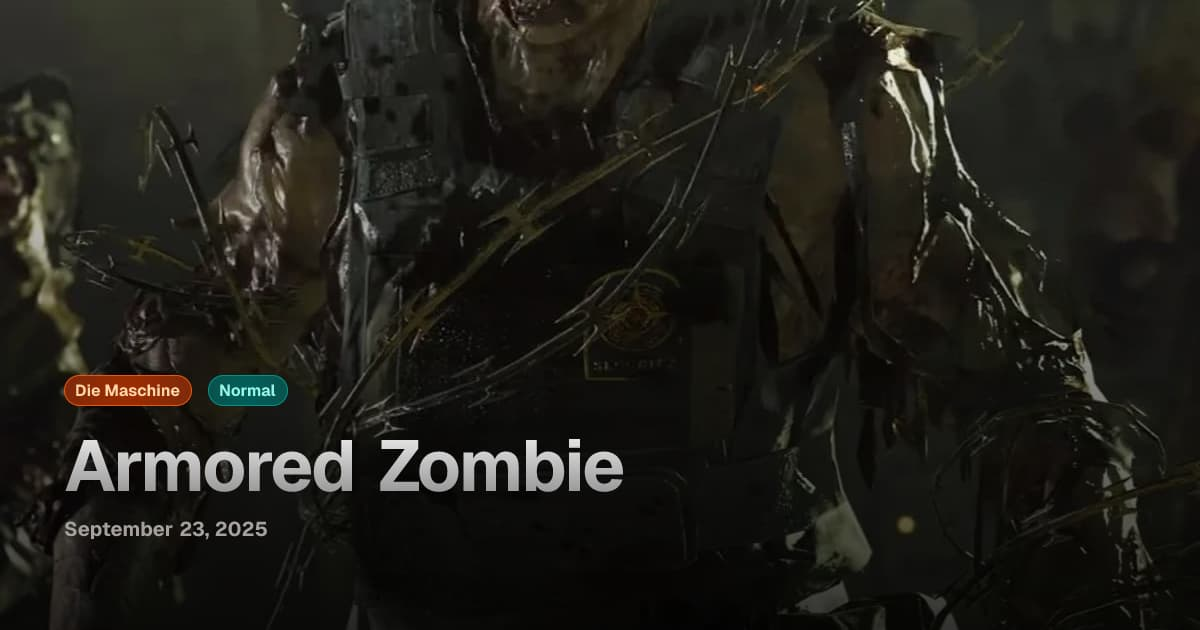
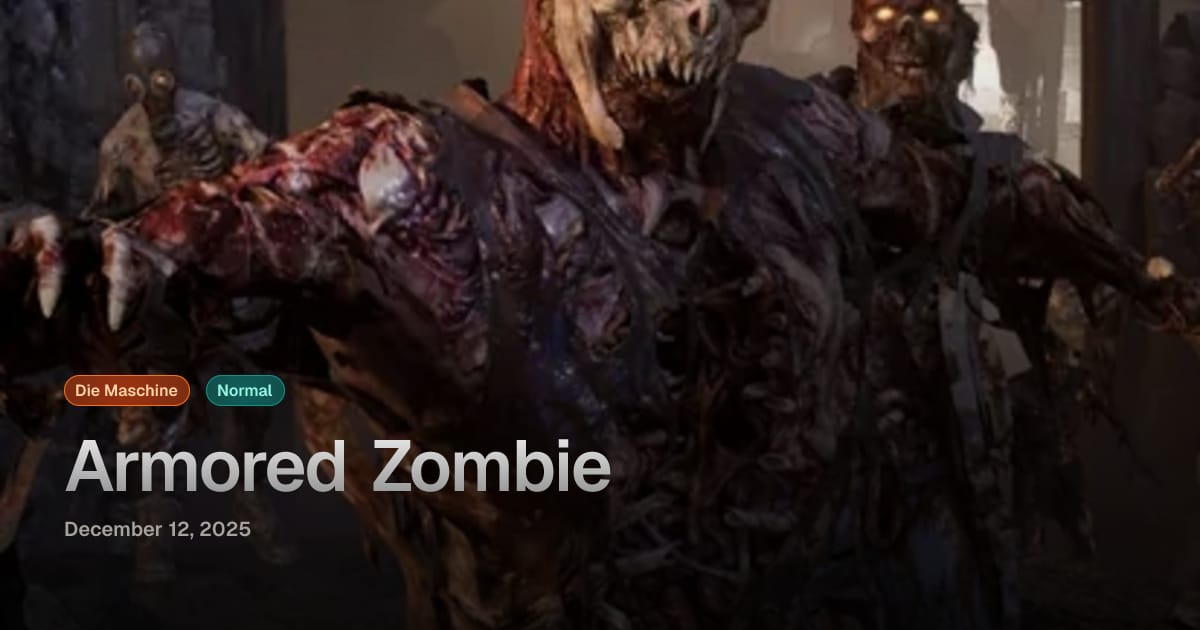
update(zombies): update Armored and Heavy Zombies for BO7

diff --git a/scripts/generate-og-images.tsx b/scripts/generate-og-images.tsx
@@ -594,7 +594,7 @@ const generateZombieImage = Effect.fn("generateZombieImage")(function* (zombie: 
 const _ZombieGeneration = Effect.gen(function* () {
 	const fs = yield* FileSystem.FileSystem
 	const path = yield* Path.Path
-	const zombie = getZombieByKey("caltheris")
+	const zombie = getZombieByKey("armoredZombie")
 	const ogImage = yield* generateZombieImage(zombie)
 	yield* fs.writeFile(
 		path.join(process.cwd(), "public", `opengraph-images/zombies/og-${zombie.id}.jpg`),
@@ -603,4 +603,4 @@ const _ZombieGeneration = Effect.gen(function* () {
 	yield* Effect.log(`Generated og image for ${zombie.id}`)
 }).pipe(Effect.withLogSpan("side_quest_generation"), Effect.provide(FsLayer))
 
-BunRuntime.runMain(_SideQuestGeneration)
+BunRuntime.runMain(_ZombieGeneration)

diff --git a/scripts/optimize-assets.ts b/scripts/optimize-assets.ts
@@ -7,7 +7,7 @@ import sharp from "sharp"
 // Change this to the path where the new images you want to add are located
 const NEW_ASSETS_DIR = "./newassets"
 // Change this to the target path where the optimized images should end up
-const TARGET_DIR = "./public/icons/upgrades"
+const TARGET_DIR = "./public/zombies"
 
 Effect.gen(function* () {
 	const startTime = performance.now()
